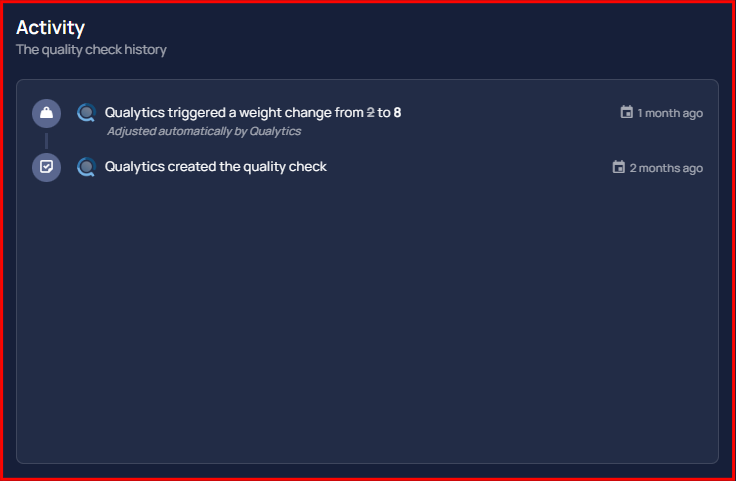
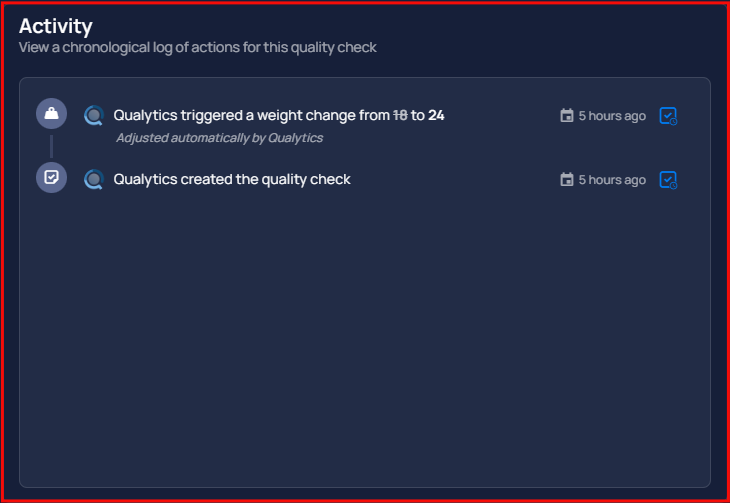
QUA-693: Update "Checks in Datastore" userguide as per the latest release.

Changed region(s): [[0.0, 0.0, 1.0, 1.0], [0.7534, 0.3119, 0.9644, 0.3742], [0.7534, 0.1871, 0.9644, 0.2495]]

diff --git a/docs/datastore-checks/checks-datastore.md b/docs/datastore-checks/checks-datastore.md
@@ -68,7 +68,7 @@ You can also categorize the draft checks based on their importance and favorites
 ![important](../assets/datastore-checks/checks-datastore/important-light-10.png#only-light)
 ![important](../assets/datastore-checks/checks-datastore/important-dark-10.png#only-dark)
 
-**2 Favorite:** Displays checks that have been marked as favorites. This allows you to quickly access checks that you use or monitor frequently.  
+**2. Favorite:** Displays checks that have been marked as favorites. This allows you to quickly access checks that you use or monitor frequently.  
 
 ![favorite](../assets/datastore-checks/checks-datastore/favorite-light-11.png#only-light)
 ![favorite](../assets/datastore-checks/checks-datastore/favorite-dark-11.png#only-dark)
@@ -106,8 +106,7 @@ You can also categorize the archived checks based on their status as **Discarded
 
 Check Details provides important information about each check in the system. It shows when a check was last run, how often it has been used, when it was last updated, who made changes to it, and when it was created. This section helps users understand the status and history of the check, making it easier to manage and track its use over time.
 
-**Step 1:** 
-Locate the check you want to review, then hover over the info icon to view the Check Details. 
+**Step 1:** Locate the check you want to review, then hover over the info icon to view the Check Details. 
 
 ![hover](../assets/datastore-checks/checks-datastore/hover-light-17.png#only-light)
 ![hover](../assets/datastore-checks/checks-datastore/hover-dark-17.png#only-dark)
@@ -277,7 +276,7 @@ The Observability section helps you monitor how your check assertion metrics cha
 ![report-date](../assets/datastore-checks/checks-datastore/report-date-light.png#only-light)
 ![report-date](../assets/datastore-checks/checks-datastore/report-date-dark.png#only-dark)
 
-**Step 2 :** Click on the **calendar** icon. A date picker will appear. Select the desired report date to update the Assertion Over Time graph accordingly.
+**Step 2:** Click on the **calendar** icon. A date picker will appear. Select the desired report date to update the Assertion Over Time graph accordingly.
 
 ![calendar](../assets/datastore-checks/checks-datastore/calendar-light.png#only-light)
 ![calendar](../assets/datastore-checks/checks-datastore/calendar-dark.png#only-dark)
@@ -313,10 +312,25 @@ The Properties section explains where this check is applied. In this case, the c
 
 ### Activity Section
 
-The Activity section shows a brief history of what has happened with this check. First, the system (Qualytics) created the check one day ago. Later, the system also changed the weight of the check to 8. These changes help keep track of how the check is evolving over time and who made the updates.
+The **Activity** section displays a chronological history of all actions performed on the quality check, including creation, updates, and automated adjustments. It provides visibility into how the check has evolved over time, capturing the exact configuration, properties, and tags associated with each event.
 
 ![activity](../assets/datastore-checks/checks-datastore/activity-light-98.png#only-light)
 ![activity](../assets/datastore-checks/checks-datastore/activity-dark-98.png#only-dark)
+
+You can view the exact version of the check as it existed at that point in time by clicking the **check icon** on the right side of the activity entry.
+
+![check-version](../assets/datastore-checks/checks-datastore/check-version-light.png#only-light)
+![check-version](../assets/datastore-checks/checks-datastore/check-version-dark.png#only-dark)
+
+A right side panel will open with the historical configuration of the check.
+
+![right-panel](../assets/datastore-checks/checks-datastore/right-panel-light.png#only-light)
+![right-panel](../assets/datastore-checks/checks-datastore/right-panel-dark.png#only-dark)
+
+The **Version At** field displays the exact date and time when that version of the check was created. For example, **July 8, 2025, at 5:42 AM (GMT+5:30)** indicates when the configuration shown was active in the system.
+
+![version](../assets/datastore-checks/checks-datastore/version-light.png#only-light)
+![version](../assets/datastore-checks/checks-datastore/version-dark.png#only-dark)
 
 ### Metadata Section
 
